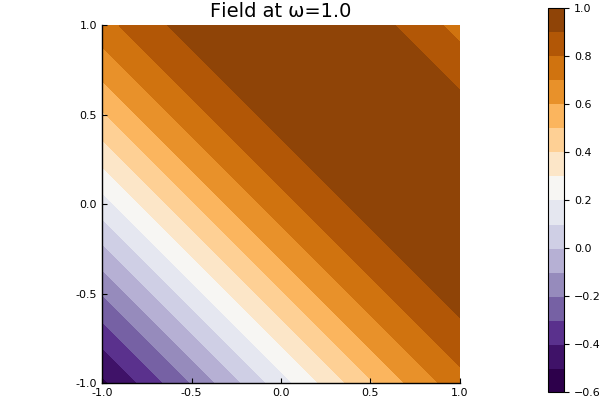
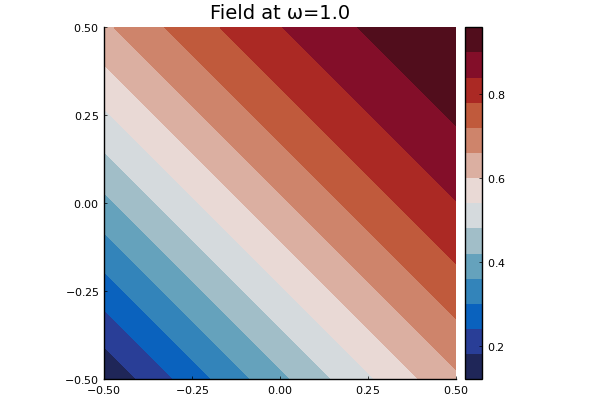
add 3D point source, and 3D plotting (only x-z plane)

diff --git a/docs/src/manual/source.md b/docs/src/manual/source.md
@@ -5,21 +5,25 @@ DocTestSetup = quote
     using MultipleScattering
 end
 ```
-[`Source`](@ref) is a `struct` which represents any source, also called an incident wave. For acoustics, any wave field $u_{\text{in}}(x,y)$ that satisfies $\nabla^2 u_{\text{in}}(x,y) + k^2 u_{\text{in}}(x,y) = 0$, with $k = \omega/c$, can be a source. See [Source](@ref source_base) for a list of relevant types and functions.
+[`Source`](@ref) is a `struct` which represents any source, also called an incident wave. See [Source](@ref source_base) for a list of relevant types and functions.
 
-## 2D Acoustics
+## Acoustics
 
-Two common source waves are shown below.
+For acoustics, any wave field $u_{\text{in}}(x,y)$ that satisfies $\nabla^2 u_{\text{in}}(x,y) + k^2 u_{\text{in}}(x,y) = 0$, with $k = \omega/c$, can be a source.
 
-For a plane-wave of the form $u_{\text{in}}(x,y) = A \mathrm e^{\mathrm i k \mathbf n \cdot (\mathbf x - \mathbf x_0)}$, where $A$ is the amplitude, $\mathbf n = (n_1,n_2)$ is the direction of propagation, and $\mathbf x_0 = (x_0,y_0)$ is the initially position of the source, we can use
+Two commonly used sources are a plane wave and point source. These can then be added together to create more complicated sources, like immitating a finite sized transducer / source.
+
+For a plane-wave of the form $u_{\text{in}}(x,y) = A \mathrm e^{\mathrm i k \mathbf n \cdot (\mathbf x - \mathbf x_0)}$, where $A$ is the amplitude, $\mathbf n = (n_1,n_2,n_2)$ is unit vector which points in the direction of propagation, and $\mathbf x_0 = (x_0,y_0,z_0)$ is the initially position (or origin) of the source, we can use
 ```jldoctest intro
-julia> medium = Acoustic(1.0, 1.0, 2);
+julia> dimension = 3;
+
+julia> medium = Acoustic(dimension; ρ = 1.0, c = 1.0);
 
 julia> A = 1.0;
 
-julia> n = [1.0,1.0];
+julia> n = [1.0,1.0,1.0];
 
-julia> x0 = [1.0,0.0];
+julia> x0 = [1.0,0.0,0.0];
 
 julia> plane_wave = plane_source(medium; amplitude = A, direction = n, position = x0);
 ```
@@ -28,23 +32,26 @@ We can plot this source wave one frequency ω by using
 ```julia
 julia> ω = 1.0;
 
-julia> domain = Box([[-1.0,-1.0],[1.0,1.0]]);
+julia> plot_origin = zeros(3); plot_dimensions = ones(3); plot_domain = Box(plot_origin, plot_dimensions);
 
-julia> plot(plane_wave, ω; bounds = domain)
+julia> using Plots; pyplot();
+
+julia> plot(plane_wave, ω; region_shape = plot_domain, y = 0.0) # in 3d currently only x-z slices are plotted for a given fixed y
 ```
 ![Plot plane wave](../assets/plane-wave.png)
 
-Another useful source is the point source $u_{\text{in}}(x,y) = \frac{\mathrm i A}{4} \mathrm H_0^{(1)}(k \|(x-x_0,y-y_0)\|)$ where $A$ is the amplitude,  $\mathbf x_0 = (x_0,y_0)$ is the origin of the point source, and $\mathrm H_0^{(1)}$ is the Hankel function of the first kind.
+Another useful source is the point source. In any dimension we consider the point source to be the zero order of the [`outgoing_basis_function`](@ref), which are the basis for all outgoing waves.
+
+The point source for 2D is $u_{\text{in}}(x,y) = \frac{\mathrm i A}{4} \mathrm H_0^{(1)}(k \|(x-x_0,y-y_0)\|)$ and for
+for 3D it is $u_{\text{in}}(x,y) = \frac{A}{4 \pi} \frac{e^{i k  \| x -  x_0\|)}{\| x -  x_0\|}$ where $A$ is the amplitude,  $\mathbf x_0$ is the origin of the point source, and $\mathrm H_0^{(1)}$ is the Hankel function of the first kind.
 
 ```jldoctest intro
-julia> x0 = [0.0,-1.2];
-
-julia> domain = Box([[-1.0,-1.0],[1.0,1.0]]);
+julia> x0 = [0.0,-1.2, 0.0];
 
 julia> point_wave = point_source(medium, x0, A);
 ```
 ```julia
-julia> plot(point_wave, ω; bounds = domain)
+julia> plot(point_wave, ω; region_shape = plot_domain)
 ```
 ![Plot point wave](../assets/point-wave.png)
 
@@ -58,21 +65,22 @@ The easiest way to create new sources is to just sum together predefined sources
 ```julia
 julia> source = (3.0 + 1.0im) * point_wave + plane_wave;
 
-julia> plot(source, ω; bounds = domain)
+julia> plot(source, ω; bounds = plot_domain)
 ```
-![Plot point wave](../assets/combined-source.png)
+![Plot combined source wave](../assets/combined-source.png)
 
-For example, to create a finite emitter/transducer source we can use:
+For example, we can use this to create a finite emitter/transducer source,
+```jldoctest intro
+julia> xs = LinRange(-0.7, 0.7, 30);
+
+julia> source = sum(xs) do x point_source(medium, [x, -1.1, 0.0]) end;
+```
 ```julia
-julia> ys = LinRange(-0.7, 0.7, 30);
-
-julia> source = sum(ys) do y point_source(medium, [-1.1, y]) end;
-
-julia> plot(source, 4.0; bounds = domain, field_apply = abs, res = 40)
+julia> plot(source, 4.0; y = 0.0, bounds = plot_domain, field_apply = abs, res = 40)
 ```
 ![Plot point wave](../assets/transducer-source.png)
 
-where `field_apply` is applied to the wave field at every point, the default is `field_apply = real`, and `res` is the resolution along both the $x$ and $y$ axis.
+where `field_apply` is applied to the wave field at every point, the default is `field_apply = real`, and `res` is the resolution along both the $x$ and $y$ axis. Note, this is not computationally very efficient. See [`+(s1::Source{T,P},s2::Source{T,P}) where {P,T}`](@ref) for the very abstract code behind the scenes.
 
 To define a new source you will need to understand the internals below.
 
